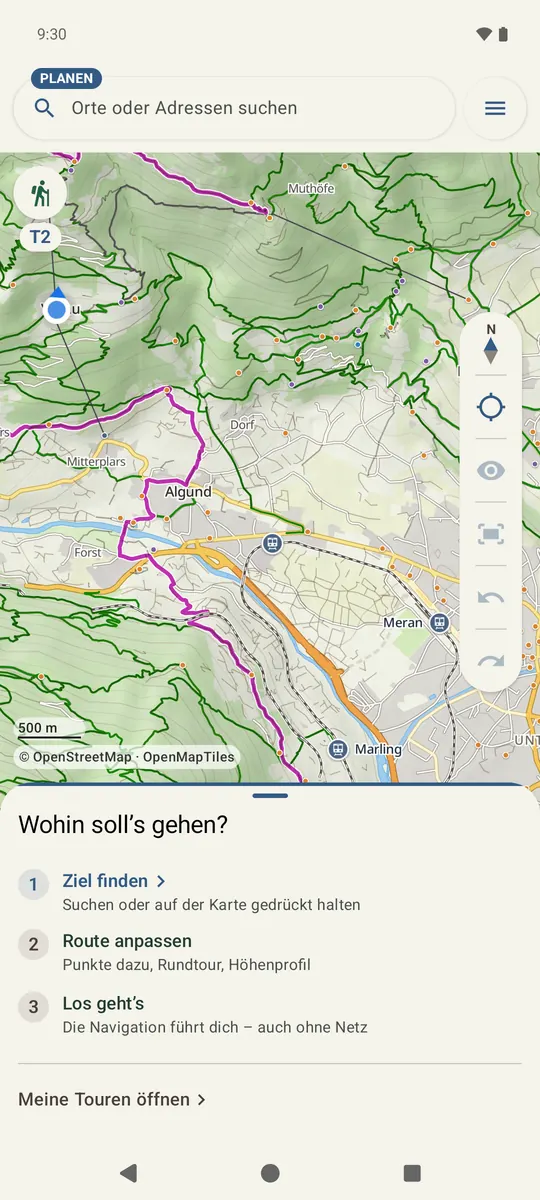
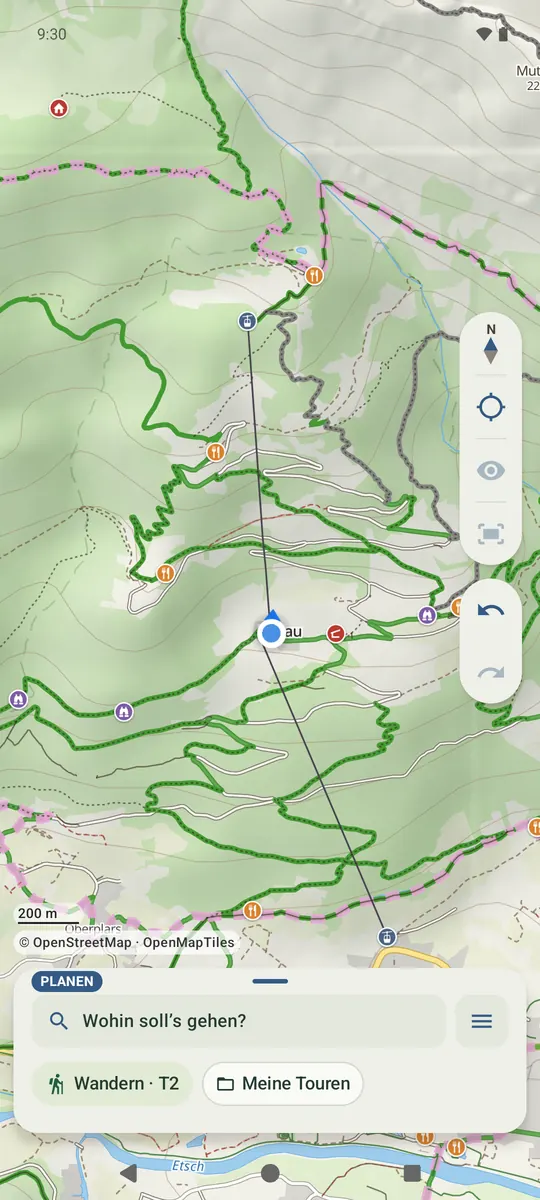
Next app release (prepared, not live): verbinden/connect without brackets, privacy words, Ganz neu berechnen, Daumen-Karte pictures D01 D03 D04 D05 D06 E01 E06 and search-card texts (DE + EN)
Claude-Session: https://claude.ai/code/session_01167zC7XMzE8ztTE3cS1Vr3

diff --git a/legal_content.py b/legal_content.py
@@ -40,17 +40,17 @@ DE_PRIVACY=[
   '<p>Rechtsgrundlage ist Art. 6 Abs. 1 Buchst. f DSGVO. Unser berechtigtes Interesse ist eine sichere, stabile und bezahlbare Bereitstellung von Website, Planer und Karten.</p>'
   '<p>Cloudflare verarbeitet diese Daten in unserem Auftrag (Art. 28 DSGVO) nach seinen <a href="https://www.cloudflare.com/cloudflare-customer-dpa/">Auftragsverarbeitungsbedingungen</a>. Dabei kann die Verarbeitung auch in den USA oder anderen Ländern außerhalb des EWR stattfinden, etwa weil eine Anfrage im nächstgelegenen Rechenzentrum bearbeitet wird. Cloudflare ist nach dem EU-US Data Privacy Framework zertifiziert, für das ein Angemessenheitsbeschluss der EU-Kommission besteht (Art. 45 DSGVO); die Auftragsverarbeitungsbedingungen enthalten zusätzlich EU-Standardvertragsklauseln (Art. 46 DSGVO). Die Auftragsverarbeitungsbedingungen (Customer DPA) sind Teil der Nutzungsbedingungen von Cloudflare und gelten für unser Konto. Wie lange Cloudflare selbst technische Daten aufbewahrt, beschreibt seine <a href="https://www.cloudflare.com/de-de/privacypolicy/">Datenschutzrichtlinie</a>.</p>'),
  ('Cookies und Speicher in deinem Browser','<p><b>Website.</b> onpath.earth setzt keine Cookies und speichert nichts in deinem Browser. Die Hilfesuche läuft nur in deinem Browser. Schrift, Bilder, CSS und JavaScript kommen vom selben Server; Inhalte Dritter wie Google Fonts, Karten, Videos oder Kontaktformulare sind nicht eingebunden. Der Sprachwechsel arbeitet über Links.</p>'
-  '<p><b>Planer.</b> Auch der Planer setzt keine Cookies und nutzt keine Analyse-, Werbe- oder fremden Skripte. Im Speicher deines Browsers legt er nur ab, was seine Funktionen brauchen: im Local Storage deine Einstellungen (zum Beispiel Aktivität, Schwierigkeit, Tempo, Karteninhalt, Sprache, Ansicht), zuletzt bearbeitete, nicht gespeicherte Pläne, Kennzahlen deiner Routen und eine zufällige Browser-Kennung; in der Browser-Datenbank (IndexedDB) deine gespeicherten Routen, eine zufällige Gerätekennung und – nach dem Koppeln – den Kopplungsschlüssel. Diese Speicherung ist für die von dir gewünschten Funktionen unbedingt erforderlich (§ 25 Abs. 2 Nr. 2 TDDDG). Du löschst alles, indem du die Websitedaten für plan.onpath.earth in deinem Browser löschst.</p>'
+  '<p><b>Planer.</b> Auch der Planer setzt keine Cookies und nutzt keine Analyse-, Werbe- oder fremden Skripte. Im Speicher deines Browsers legt er nur ab, was seine Funktionen brauchen: im Local Storage deine Einstellungen (zum Beispiel Aktivität, Schwierigkeit, Tempo, Karteninhalt, Sprache, Ansicht), zuletzt bearbeitete, nicht gespeicherte Pläne, Kennzahlen deiner Routen und eine zufällige Browser-Kennung; in der Browser-Datenbank (IndexedDB) deine gespeicherten Routen, eine zufällige Gerätekennung und – nach dem Verbinden – den Verbindungsschlüssel. Diese Speicherung ist für die von dir gewünschten Funktionen unbedingt erforderlich (§ 25 Abs. 2 Nr. 2 TDDDG). Du löschst alles, indem du die Websitedaten für plan.onpath.earth in deinem Browser löschst.</p>'
   '<p><b>Sicherheitsprüfung.</b> Bei auffälligem Datenverkehr kann Cloudflare vor einer Seite eine Sicherheitsprüfung zeigen und dafür ein technisch notwendiges Cookie (cf_clearance) setzen (§ 25 Abs. 2 Nr. 2 TDDDG). Die Analysefunktion von Cloudflare (Web Analytics) und der Bot-Schutz „Bot Fight Mode“ sind für onpath.earth und plan.onpath.earth nicht eingeschaltet.</p>'),
  ('Routenplaner im Browser (plan.onpath.earth)','<p><b>Dein Plan.</b> Der Planer berechnet Routen in deinem Browser. Der aktuelle Plan steht nur im Link hinter dem Zeichen „#“; dieser Teil eines Links wird nicht an den Server gesendet.</p>'
   '<p><b>Karten und Routing-Daten.</b> Seite, Schriften, Karten, Höhendaten und Routing-Daten lädt dein Browser von plan.onpath.earth. Unser Server sieht dabei zwangsläufig, welche Kartengebiete geladen werden; wir protokollieren das nicht. Die Routing-Daten holt unser Server von brouter.de; brouter.de sieht dabei nicht deine IP-Adresse.</p>'
-  '<p><b>Neue Kartengebiete und Begrenzungen.</b> Ist ein Gebiet noch nicht erstellt, sendet dein Browser dessen Nummer und die zufällige Browser-Kennung; an den Kartenserver gehen nur die Gebietsnummer und – für dessen Begrenzung pro Minute – die IP-Adresse. Um Missbrauch und Kosten zu begrenzen, zählen wir neue Gebiete pro Browser-Kennung (pro Tag und Monat), pro IP-Adresse (pro Tag) und neue Kopplungen pro IP-Adresse (pro Tag). Die IP-Adresse steht in diesen Zählern nur als täglich wechselnde, mit einem geheimen Schlüssel gebildete Prüfsumme; Orte stehen darin nicht. Tageszähler werden nach zwei Tagen gelöscht, Monatszähler nach Ablauf des Monats. Zusätzlich begrenzen Planer und Kartenserver die Zahl der Anfragen pro IP-Adresse und Minute; diese Zähler verfallen nach ein bis zwei Minuten. Rechtsgrundlage ist Art. 6 Abs. 1 Buchst. f DSGVO; unser berechtigtes Interesse ist ein sicherer und bezahlbarer Betrieb.</p>'
+  '<p><b>Neue Kartengebiete und Begrenzungen.</b> Ist ein Gebiet noch nicht erstellt, sendet dein Browser dessen Nummer und die zufällige Browser-Kennung; an den Kartenserver gehen nur die Gebietsnummer und – für dessen Begrenzung pro Minute – die IP-Adresse. Um Missbrauch und Kosten zu begrenzen, zählen wir neue Gebiete pro Browser-Kennung (pro Tag und Monat), pro IP-Adresse (pro Tag) und neue Verbindungen pro IP-Adresse (pro Tag). Die IP-Adresse steht in diesen Zählern nur als täglich wechselnde, mit einem geheimen Schlüssel gebildete Prüfsumme; Orte stehen darin nicht. Tageszähler werden nach zwei Tagen gelöscht, Monatszähler nach Ablauf des Monats. Zusätzlich begrenzen Planer und Kartenserver die Zahl der Anfragen pro IP-Adresse und Minute; diese Zähler verfallen nach ein bis zwei Minuten. Rechtsgrundlage ist Art. 6 Abs. 1 Buchst. f DSGVO; unser berechtigtes Interesse ist ein sicherer und bezahlbarer Betrieb.</p>'
   '<p><b>Suche.</b> Wenn du nach einem Ort suchst, gehen schon während der Eingabe (nach einer kurzen Tipp-Pause) dein Suchtext und der Kartenmittelpunkt, auf etwa 1 km gerundet, direkt von deinem Browser an den Suchdienst Photon (photon.komoot.io) von komoot. Photon sieht dabei deine IP-Adresse und verarbeitet die Anfrage als eigener Verantwortlicher. Rechtsgrundlage für die Einbindung ist Art. 6 Abs. 1 Buchst. b DSGVO, weil du die Suche selbst nutzt.</p>'
   '<p><b>Standort.</b> Deinen Standort fragt der Planer nur ab, wenn du darauf klickst; dein Browser bittet dich vorher um Erlaubnis. Der Standort bleibt in deinem Browser.</p>'
   '<p><b>Google Maps</b> ist im Planer nur ein Knopf, der Google Maps mit dem gewählten Ort in einem neuen Tab öffnet. Erst wenn du ihn anklickst, erhält Google den Ort und deine Verbindungsdaten.</p>'),
- ('Browser und Handy koppeln','<p>Wenn du den Planer mit der App koppelst, werden deine gespeicherten Routen und importierten Tracks über ein Postfach auf unserem Server abgeglichen (Cloudflare D1, Speicherort EU). Aufgezeichnete Touren werden nie übertragen. Die Inhalte werden auf dem Handy beziehungsweise im Browser verschlüsselt (Ende-zu-Ende, AES-256-GCM); der Schlüssel verlässt deine Geräte nicht, wir können die Inhalte nicht lesen.</p>'
+ ('Browser und Handy verbinden','<p>Wenn du den Planer mit der App verbindest, werden deine gespeicherten Routen und importierten Tracks über ein Postfach auf unserem Server abgeglichen (Cloudflare D1, Speicherort EU). Aufgezeichnete Touren werden nie übertragen. Die Inhalte werden auf dem Handy beziehungsweise im Browser verschlüsselt (Ende-zu-Ende, AES-256-GCM); der Schlüssel verlässt deine Geräte nicht, wir können die Inhalte nicht lesen.</p>'
   '<p>Der Server speichert eine zufällige Postfach-Nummer, eine Prüfsumme des Zugangsschlüssels, die verschlüsselten Einträge mit ihrer Größe und Versionsnummer, wann das Postfach angelegt und zuletzt genutzt wurde (tagesgenau) und wann das Handy zuletzt abgeglichen hat (minutengenau). Namen, E-Mail-Adressen oder IP-Adressen speichert er nicht; die IP-Adresse wird nur für die Verbindung und die oben beschriebenen Begrenzungen verwendet.</p>'
-  '<p>Beim Trennen werden alle Inhalte des Postfachs sofort gelöscht; die leere Postfach-Nummer mit ihren Zeitpunkten wird nach 12 Monaten entfernt. Ein Postfach, das 12 Monate nicht genutzt wurde, wird samt Inhalt automatisch gelöscht. Gelöschte Routen bleiben bis dahin als verschlüsselte Löschvermerke im Postfach. Wer deinen Kopplungscode (QR-Code) hat, kann deine gespeicherten Routen lesen – gib ihn nicht weiter. Rechtsgrundlage ist Art. 6 Abs. 1 Buchst. b DSGVO.</p>'),
+  '<p>Beim Trennen werden alle Inhalte des Postfachs sofort gelöscht; die leere Postfach-Nummer mit ihren Zeitpunkten wird nach 12 Monaten entfernt. Ein Postfach, das 12 Monate nicht genutzt wurde, wird samt Inhalt automatisch gelöscht. Gelöschte Routen bleiben bis dahin als verschlüsselte Löschvermerke im Postfach. Wer deinen Verbindungscode (QR-Code) hat, kann deine gespeicherten Routen lesen – gib ihn nicht weiter. Rechtsgrundlage ist Art. 6 Abs. 1 Buchst. b DSGVO.</p>'),
  ('Standort teilen (nur wenn du es einschaltest)','<p>Tippst du in der App unterwegs auf „Standort teilen“, schickt dein Handy während der Tour deinen Weg und Standort etwa alle zwei Minuten (im Stillstand seltener) an unseren Server (Cloudflare Workers mit D1, Speicherort EU). Dazu kommen die Werte, die die Zuschauerseite zeigt: Strecke, Höhenmeter und Zeit, bei einem geplanten Weg Restweg und Ankunft, außerdem Aktivität, Akkustand deines Handys und der Name, den du für die Seite angibst. Alles wird auf dem Handy verschlüsselt (Ende-zu-Ende, AES-256-GCM). Der Schlüssel steckt nur in dem Link, den du selbst verschickst, und zwar im Teil hinter „#“, der nie an einen Server geht. Wir können weder deinen Ort noch deine Route noch deinen Namen lesen.</p>'
   '<p>Der Server speichert eine zufällige Nummer, Prüfsummen der Zugangsschlüssel, die verschlossenen Daten mit ihrer Größe und wann sie kamen. Wer den Link hat, sieht deine Tour, bis das Teilen endet – auch wenn der Link weitergeleitet wurde. Schreiben und löschen kann nur dein Handy. „Teilen beenden“ löscht die Daten sofort; sonst löscht der Server sie etwa 12 Stunden nach Tourende, spätestens etwa 48 Stunden nach der letzten Übertragung. Die leere Nummer mit ihren Zeitpunkten bleibt danach noch 48 Stunden, damit der Link sagen kann, dass nicht mehr geteilt wird. Die IP-Adresse wird nur für die Verbindung und für die Begrenzungen pro Minute und pro Tag genutzt (wie oben, als täglich wechselnde Prüfsumme).</p>'
   '<p><b>Zuschauerseite.</b> Wer den Link öffnet, lädt Seite und Karten von plan.onpath.earth; die Seite setzt keine Cookies und legt nichts in deinem Browser ab. Sie ist kein Notruf-Dienst.</p>'
@@ -64,12 +64,12 @@ DE_PRIVACY=[
   '<li><b>Geteilte Orte:</b> Teilst du einen verkürzten Google-Maps-Link mit OnPath, folgt die App dem Link bei Google bis zur vollen Adresse; die Google-Maps-Seite selbst wird nicht geladen. Findet die eigene Suche einen geteilten Ort nicht sicher, fragt die App den Adressdienst deines Handys (auf den meisten Handys von Google) nach dieser Adresse.</li>'
   '<li><b>Updates</b> (nur bei Installation außerhalb von Google Play): einmal am Tag und wenn du auf „Nach Updates suchen“ tippst, eine Anfrage nach der neuesten Version an GitHub (api.github.com, GitHub, Inc., USA), ohne Kennung von dir oder deinem Handy; der Download kommt von GitHub, wenn du ein Update installierst.</li>'
   '<li><b>Links, die du antippst:</b> „In Google Maps öffnen“ übergibt den Ort an Google Maps; die Website oder Wikipedia-Seite eines Orts und Hilfeseiten (etwa dontkillmyapp.com) öffnen sich im Browser beim jeweiligen Anbieter.</li>'
-  '<li><b>Abgleich mit dem Browser:</b> nur nach dem Koppeln, siehe oben.</li>'
+  '<li><b>Abgleich mit dem Browser:</b> nur nach dem Verbinden, siehe oben.</li>'
   '<li><b>Standort teilen:</b> nur nachdem du es eingeschaltet hast, bis die Tour endet oder du das Teilen beendest, siehe oben.</li>'
   '<li><b>Diagnose-Datei:</b> nur wenn du sie selbst teilst, an den Empfänger, den du wählst. Sie enthält unter anderem Gerätemodell, App-Version, Einstellungen, den aktuellen Kartenausschnitt, den Stand von Aufzeichnung und Navigation und das App-Protokoll – also unter Umständen Ortsangaben. Prüfe sie vor dem Weitergeben.</li>'
   '</ul>'
   '<p>Sprachansagen erzeugt die Sprachausgabe deines Handys; OnPath wählt eine Stimme, die ohne Internet auskommt. brouter.de, komoot, GitHub und Google verarbeiten die Anfragen als eigene Verantwortliche nach ihren eigenen Datenschutzhinweisen; bei GitHub und Google kann dabei eine Übermittlung in die USA stattfinden. Rechtsgrundlage für die Verbindungen ist Art. 6 Abs. 1 Buchst. b DSGVO, weil sie die von dir genutzten Funktionen bereitstellen; für die tägliche Update-Prüfung Art. 6 Abs. 1 Buchst. f DSGVO (berechtigtes Interesse: eine aktuelle, fehlerbereinigte App). Auf Standort und Speicher deines Handys greift die App nur zu, soweit es für die von dir gewünschte Funktion unbedingt erforderlich ist (§ 25 Abs. 2 Nr. 2 TDDDG).</p>'
-  '<p><b>Gerätesicherung von Android.</b> Je nach Einstellung deines Handys nimmt Android die Datenbank von OnPath (Touren mit ihren Aufzeichnungen, Pläne), die Einstellungen und die Gerätekennung für den Abgleich in die Gerätesicherung auf, etwa bei Google, oder überträgt sie auf ein neues Handy. Karten, Problemprotokoll und Kopplungsschlüssel gehören nicht dazu. Das steuerst du in den Android-Einstellungen; wir haben keinen Zugriff auf diese Sicherung.</p>'),
+  '<p><b>Gerätesicherung von Android.</b> Je nach Einstellung deines Handys nimmt Android die Datenbank von OnPath (Touren mit ihren Aufzeichnungen, Pläne), die Einstellungen und die Gerätekennung für den Abgleich in die Gerätesicherung auf, etwa bei Google, oder überträgt sie auf ein neues Handy. Karten, Problemprotokoll und Verbindungsschlüssel gehören nicht dazu. Das steuerst du in den Android-Einstellungen; wir haben keinen Zugriff auf diese Sicherung.</p>'),
  ('Testen und Installieren','<p><b>Persönliche Einladung.</b> Für die Teilnahme am Test schreibst du uns eine E-Mail (siehe unten), etwa mit deinem Handy-Modell. Den Download-Link bekommst du per E-Mail; die App-Datei liegt bei GitHub (GitHub, Inc., USA), das beim Download deine Verbindungsdaten sieht.</p>'
   '<p><b>Testgruppe bei Google.</b> Für den geschlossenen Test über Google Play nutzen wir eine Gruppe bei Google Groups. Anbieter ist Google Ireland Limited, Gordon House, Barrow Street, Dublin 4, Irland. Wenn du den Beitritt anfragst, sehen wir als Verwalter deine E-Mail-Adresse, den Namen deines Google-Kontos und deine Nachricht; andere Mitglieder sehen deine Adresse nicht. Wir nutzen die Angaben, um über die Aufnahme zu entscheiden und dir Nachrichten zum Test zu schicken, und speichern sie nicht außerhalb von Google. Installierst du OnPath über Google Play, verarbeitet Google dabei eigene Daten; Google stellt uns außerdem zusammengefasste Installationszahlen sowie Absturz- und Stabilitätsberichte von Geräten bereit, auf denen das Teilen von Nutzungs- und Diagnosedaten mit Google eingeschaltet ist. Rechtsgrundlage ist Art. 6 Abs. 1 Buchst. b DSGVO: Du nimmst auf eigenen Wunsch am Test teil. Du kannst die Gruppe jederzeit verlassen und den Test in Google Play beenden. Für die Verarbeitung durch Google gilt dessen <a href="https://policies.google.com/privacy?hl=de">Datenschutzerklärung</a>.</p>'),
  ('E-Mail und freiwillige Rückmeldungen','<p>Wenn du uns schreibst, verarbeiten wir deine E-Mail-Adresse, deine Nachricht und freiwillig übermittelte Angaben, um dein Anliegen zu bearbeiten. E-Mails an info@onpath.earth leitet Cloudflare Email Routing an unser Postfach bei Gmail weiter (Google Ireland Limited, Gordon House, Barrow Street, Dublin 4, Irland). Google kann dabei Daten auch in den USA verarbeiten; Google ist nach dem EU-US Data Privacy Framework zertifiziert (Art. 45 DSGVO). Rechtsgrundlage ist Art. 6 Abs. 1 Buchst. f DSGVO (berechtigtes Interesse: deine Anfrage beantworten); geht es um deine Teilnahme am Test, Art. 6 Abs. 1 Buchst. b DSGVO.</p>'
@@ -103,17 +103,17 @@ EN_PRIVACY=[
   '<p>The legal basis is Article 6(1)(f) GDPR. Our legitimate interest is secure, stable and affordable delivery of the website, the planner and the maps.</p>'
   '<p>Cloudflare processes this data on our behalf (Article 28 GDPR) under its <a href="https://www.cloudflare.com/cloudflare-customer-dpa/">data processing terms</a>. Processing may also take place in the USA or other countries outside the EEA, for example because a request is handled in the nearest data centre. Cloudflare is certified under the EU-US Data Privacy Framework, which is covered by an adequacy decision of the European Commission (Article 45 GDPR); the processing terms also contain the EU standard contractual clauses (Article 46 GDPR). The data processing terms (Customer DPA) are part of Cloudflare’s terms of service and apply to our account. How long Cloudflare itself keeps technical data is described in its <a href="https://www.cloudflare.com/privacypolicy/">privacy policy</a>.</p>'),
  ('Cookies and storage in your browser','<p><b>Website.</b> onpath.earth sets no cookies and stores nothing in your browser. The help search runs only in your browser. Fonts, images, styles and scripts come from the same server; no third-party content such as Google Fonts, maps, videos or contact forms is embedded. Language switching uses links.</p>'
-  '<p><b>Planner.</b> The planner sets no cookies either and uses no analytics, advertising or third-party scripts. In your browser’s storage it keeps only what its functions need: in local storage your settings (for example activity, difficulty, pace, map content, language, view), recently edited unsaved plans, figures for your routes and a random browser ID; in the browser database (IndexedDB) your saved routes, a random device ID and – after pairing – the pairing key. This storage is strictly necessary for the functions you ask for (section 25(2) no. 2 of the German TDDDG). You delete all of it by clearing the site data for plan.onpath.earth in your browser.</p>'
+  '<p><b>Planner.</b> The planner sets no cookies either and uses no analytics, advertising or third-party scripts. In your browser’s storage it keeps only what its functions need: in local storage your settings (for example activity, difficulty, pace, map content, language, view), recently edited unsaved plans, figures for your routes and a random browser ID; in the browser database (IndexedDB) your saved routes, a random device ID and – after connecting – the connection key. This storage is strictly necessary for the functions you ask for (section 25(2) no. 2 of the German TDDDG). You delete all of it by clearing the site data for plan.onpath.earth in your browser.</p>'
   '<p><b>Security check.</b> With unusual traffic Cloudflare may show a security check before a page and set a technically necessary cookie (cf_clearance) for it (section 25(2) no. 2 TDDDG). Cloudflare’s analytics feature (Web Analytics) and its “Bot Fight Mode” are not switched on for onpath.earth and plan.onpath.earth.</p>'),
  ('Browser route planner (plan.onpath.earth)','<p><b>Your plan.</b> The planner calculates routes in your browser. The current plan exists only in the link after the “#” sign; this part of a link is not sent to the server.</p>'
   '<p><b>Maps and routing data.</b> Your browser loads the page, fonts, maps, elevation data and routing data from plan.onpath.earth. Our server necessarily sees which map areas are loaded; we do not log this. Our server fetches the routing data from brouter.de; brouter.de does not see your IP address.</p>'
-  '<p><b>New map areas and limits.</b> If an area has not been built yet, your browser sends its number and the random browser ID; only the area number and – for its per-minute limit – the IP address go on to the map server. To limit abuse and cost we count new areas per browser ID (per day and month), per IP address (per day) and new pairings per IP address (per day). In these counters the IP address appears only as a hash that changes daily and is made with a secret key; no places are stored. Daily counters are deleted after two days, monthly counters after the month ends. In addition the planner and the map server limit requests per IP address and minute; these counters expire after one to two minutes. The legal basis is Article 6(1)(f) GDPR; our legitimate interest is safe and affordable operation.</p>'
+  '<p><b>New map areas and limits.</b> If an area has not been built yet, your browser sends its number and the random browser ID; only the area number and – for its per-minute limit – the IP address go on to the map server. To limit abuse and cost we count new areas per browser ID (per day and month), per IP address (per day) and new connections per IP address (per day). In these counters the IP address appears only as a hash that changes daily and is made with a secret key; no places are stored. Daily counters are deleted after two days, monthly counters after the month ends. In addition the planner and the map server limit requests per IP address and minute; these counters expire after one to two minutes. The legal basis is Article 6(1)(f) GDPR; our legitimate interest is safe and affordable operation.</p>'
   '<p><b>Search.</b> When you search for a place, your search text and the map centre, rounded to about 1 km, go directly from your browser to komoot’s Photon search service (photon.komoot.io) while you type (after a short pause). Photon sees your IP address and handles the request as a controller in its own right. The legal basis for this feature is Article 6(1)(b) GDPR, as you use the search yourself.</p>'
   '<p><b>Location.</b> The planner asks for your location only when you click for it; your browser asks your permission first. The location stays in your browser.</p>'
   '<p><b>Google Maps</b> is only a button in the planner that opens Google Maps with the chosen place in a new tab. Google receives the place and your connection data only when you click it.</p>'),
- ('Pairing browser and phone','<p>If you pair the planner with the app, your saved routes and imported tracks are exchanged through a mailbox on our server (Cloudflare D1, stored in the EU). Recorded tours are never sent. The content is encrypted on the phone or in the browser (end-to-end, AES-256-GCM); the key never leaves your devices and we cannot read the content.</p>'
+ ('Connecting browser and phone','<p>If you connect the planner with the app, your saved routes and imported tracks are exchanged through a mailbox on our server (Cloudflare D1, stored in the EU). Recorded tours are never sent. The content is encrypted on the phone or in the browser (end-to-end, AES-256-GCM); the key never leaves your devices and we cannot read the content.</p>'
   '<p>The server stores a random mailbox number, a hash of the access token, the encrypted entries with their size and version number, when the mailbox was created and last used (to the day) and when the phone last synced (to the minute). It stores no names, email addresses or IP addresses; the IP address is used only for the connection and the limits described above.</p>'
-  '<p>Unpairing deletes all content of the mailbox at once; the empty mailbox number with its times is removed after 12 months. A mailbox not used for 12 months is deleted with its content automatically. Until then deleted routes remain in the mailbox as encrypted deletion markers. Anyone who has your pairing code (QR code) can read your saved routes – do not share it. The legal basis is Article 6(1)(b) GDPR.</p>'),
+  '<p>Unpairing deletes all content of the mailbox at once; the empty mailbox number with its times is removed after 12 months. A mailbox not used for 12 months is deleted with its content automatically. Until then deleted routes remain in the mailbox as encrypted deletion markers. Anyone who has your connection code (QR code) can read your saved routes – do not share it. The legal basis is Article 6(1)(b) GDPR.</p>'),
  ('Sharing your location (only when you switch it on)','<p>When you tap “Share location” in the app during an outing, your phone sends your way and position to our server (Cloudflare Workers with D1, stored in the EU) about every two minutes during the tour (less often while you stand still). It adds the figures the viewer page shows: distance, ascent and time, the distance to go and the arrival for a planned route, the activity, your phone’s battery level and the name you give for the page. Everything is encrypted on the phone (end-to-end, AES-256-GCM). The key is only in the link you send yourself, in the part after “#”, which never reaches a server. We cannot read your position, your route or your name.</p>'
   '<p>The server stores a random number, checksums of the access keys, the locked data with its size and when it arrived. Whoever has the link sees your tour until sharing ends – also if the link was forwarded. Only your phone can write or delete. “Stop sharing” deletes the data at once; otherwise the server deletes it about 12 hours after the tour ends, at the latest about 48 hours after the last upload. The empty number with its times then stays for another 48 hours, so the link can say that sharing has ended. The IP address is used only for the connection and for the per-minute and per-day limits (as above, as a daily changing checksum).</p>'
   '<p><b>Viewer page.</b> Whoever opens the link loads the page and the maps from plan.onpath.earth; the page sets no cookies and puts nothing into your browser’s storage. It is not an emergency service.</p>'
@@ -127,12 +127,12 @@ EN_PRIVACY=[
   '<li><b>Shared places:</b> if you share a shortened Google Maps link into OnPath, the app follows the link at Google to its full address; the Google Maps page itself is not loaded. If OnPath’s own search cannot place a shared place with certainty, the app asks your phone’s address service (Google on most phones) for that address.</li>'
   '<li><b>Updates</b> (only for installations outside Google Play): once a day and when you tap “Check for updates”, a request for the newest version to GitHub (api.github.com, GitHub, Inc., USA), without any ID of you or your phone; the download comes from GitHub when you install an update.</li>'
   '<li><b>Links you tap:</b> “Open in Google Maps” hands the place to Google Maps; a place’s website or Wikipedia page and help pages (such as dontkillmyapp.com) open in the browser at that provider.</li>'
-  '<li><b>Sync with the browser:</b> only after pairing, see above.</li>'
+  '<li><b>Sync with the browser:</b> only after connecting, see above.</li>'
   '<li><b>Sharing your location:</b> only after you switch it on, until the tour ends or you stop sharing, see above.</li>'
   '<li><b>Diagnostics file:</b> only when you share it yourself, to the recipient you choose. It contains among other things the device model, app version, settings, the current map view, the recording and navigation state and the app log – so it may contain location information. Check it before passing it on.</li>'
   '</ul>'
   '<p>Voice directions come from your phone’s speech engine; OnPath picks a voice that works without internet. brouter.de, komoot, GitHub and Google handle the requests as controllers in their own right under their own privacy notices; with GitHub and Google this may involve a transfer to the USA. The legal basis for these connections is Article 6(1)(b) GDPR, as they provide the functions you use; for the daily update check Article 6(1)(f) GDPR (legitimate interest: an up-to-date app with fixes). The app accesses your phone’s location and storage only where strictly necessary for the function you ask for (section 25(2) no. 2 TDDDG).</p>'
-  '<p><b>Android device backup.</b> Depending on your phone’s settings, Android includes OnPath’s database (tours with their recordings, plans), the settings and the sync device ID in the device backup, for example at Google, or moves them to a new phone. Maps, the problem log and the pairing key are not included. You control this in Android’s settings; we have no access to this backup.</p>'),
+  '<p><b>Android device backup.</b> Depending on your phone’s settings, Android includes OnPath’s database (tours with their recordings, plans), the settings and the sync device ID in the device backup, for example at Google, or moves them to a new phone. Maps, the problem log and the connection key are not included. You control this in Android’s settings; we have no access to this backup.</p>'),
  ('Testing and installing','<p><b>Personal invitation.</b> To take part in the test you email us (see below), for example with your phone model. You receive the download link by email; the app file is hosted at GitHub (GitHub, Inc., USA), which sees your connection data when you download it.</p>'
   '<p><b>Tester group at Google.</b> For the closed test through Google Play we use a Google Groups group, provided by Google Ireland Limited, Gordon House, Barrow Street, Dublin 4, Ireland. When you ask to join, we as managers see your email address, your Google account name and your message; other members do not see your address. We use this to decide on your request and to send you news about the test, and we do not store it outside Google. If you install OnPath through Google Play, Google processes its own data; Google also gives us aggregated install figures and crash and stability reports from devices on which sharing usage and diagnostics data with Google is switched on. The legal basis is Article 6(1)(b) GDPR: you join the test at your own request. You can leave the group and the test in Google Play at any time. Google’s own <a href="https://policies.google.com/privacy">privacy policy</a> applies to its processing.</p>'),
  ('Email and voluntary feedback','<p>If you email us, we use your address, message and voluntary details to respond. Email to info@onpath.earth is forwarded by Cloudflare Email Routing to our mailbox at Gmail (Google Ireland Limited, Gordon House, Barrow Street, Dublin 4, Ireland). Google may also process data in the USA; Google is certified under the EU-US Data Privacy Framework (Article 45 GDPR). The legal basis is Article 6(1)(f) GDPR (legitimate interest: answering your enquiry); for taking part in the test Article 6(1)(b) GDPR.</p>'
@@ -141,7 +141,7 @@ EN_PRIVACY=[
  ('Retention at a glance','<ul>'
   '<li>Connection data at Cloudflare: not logged by us; Cloudflare keeps technical data under its privacy policy.</li>'
   '<li>Limit counters: per-minute counters after one to two minutes, daily counters after two days, monthly counters after the month ends.</li>'
-  '<li>Sync mailbox: content until you unpair, at most 12 months when unused; the empty mailbox number 12 months after unpairing.</li>'
+  '<li>Sync mailbox: content until you disconnect, at most 12 months when unused; the empty mailbox number 12 months after unpairing.</li>'
   '<li>Shared location: until “Stop sharing”, otherwise about 12 hours after the tour ends, at the latest about 48 hours after the last upload; the empty number 48 hours after that.</li>'
   '<li>Data in the browser and on the phone: until you delete it or uninstall the app.</li>'
   '<li>Email: while needed for the enquiry, longer only under a legal retention duty.</li>'

diff --git a/content_en.py b/content_en.py
@@ -50,12 +50,12 @@ HELP_EN = [('getting-started',
     'Wait for the download to finish and check Settings → Offline maps. A new area can take a few minutes. <a '
     'href="/help/offline/#prepare">Offline preparation in detail →</a>'),
    ('Plan a familiar route',
-    'Choose your activity with the button on the map. Then use “Find your destination” or hold your destination on the map and choose “Go here” to plan from your location. '
+    'At the bottom of the map is the search card. Choose your activity there, for example “Hike · T2”. Then tap “Where to?” and search for your destination, or hold it on the map and choose “Go here” to plan from your location. '
     'A short tap does not set a new destination, preventing accidental changes. To start elsewhere, hold the start '
     'point and choose “Start here”, then add your destination and stops. Check distance, climbing, time and route '
     'hints. Wait for the required maps to finish downloading and begin with a short, familiar route.'),
    ('Let’s go',
-    'Tap the green “Let’s go” button. OnPath saves the plan in “My tours”, guides you and records your outing. On the '
+    'Tap “Let’s go”. OnPath saves the plan in “My tours”, guides you and records your outing. On the '
     'way the bar at the bottom is locked against pocket taps: hold “Stop” or “Plan” for about a second until the '
     'button fills; the bar then stays open for 20 seconds. Set how long to hold in Settings → Navigation.')]),
  ('offline',
@@ -88,7 +88,8 @@ HELP_EN = [('getting-started',
     'place near your route offers “Add as a stop” or “Make it the destination”; the other choice is under “More”. A short tap '
     'does not set a new destination. Hold an existing point to open its actions. To move it on the map, delete and add '
     'it again. In the expanded point list, drag stops into order or remove them. Undo changes, reverse the route or '
-    'make it a round trip. “New plan” starts from scratch. When a new plan replaces the one you had, OnPath asks “Restore your old plan?” – '
+    'make it a round trip. “New plan” starts from scratch. When you add points later, OnPath keeps the stretches it has already '
+    'calculated; to have the whole route calculated afresh, choose ☰ → “Recalculate from scratch” (shown only when there is something to recalculate). When a new plan replaces the one you had, OnPath asks “Restore your old plan?” – '
     '“Restore” brings it back, “Keep” keeps the new one.'),
    ('Check the route',
     'Pull the plan panel up to inspect the elevation profile, surfaces and path types. “Offline ✓” at the top shows '
@@ -123,8 +124,8 @@ HELP_EN = [('getting-started',
    ('Connect browser and phone',
     '<p>Connect once – then your saved plans are in the browser and on your phone, both ways.</p>'
     '<h3>Connect</h3><ol><li>In the browser: click “Connect phone” at the top right, then “Connect phone” again in the window. A QR '
-    'code appears.</li><li>On your phone: open OnPath, tap ☰ → “Pair with browser” (in newer app versions “Connect to browser”) → “Open camera” and scan the '
-    'code.</li><li>OnPath shows six check digits. If they match the browser, tap “Pair” (newer: “Connect”).</li></ol><p>Scan the code with OnPath, not with the phone’s camera '
+    'code appears.</li><li>On your phone: open OnPath, tap ☰ → “Connect to browser” → “Open camera” and scan the '
+    'code.</li><li>OnPath shows six check digits. If they match the browser, tap “Connect”.</li></ol><p>Scan the code with OnPath, not with the phone’s camera '
     'app – that opens it in the browser. If the browser still opens: Android settings → Apps → OnPath → “Open by '
     'default” → turn on “Open supported links”.</p>[[shots:web-handy,web-koppeln,app-koppeln]]'
     '<h3>Your plans on both</h3><p>At the top right you now see your phone’s name with a green dot, and “Save” '
@@ -133,7 +134,7 @@ HELP_EN = [('getting-started',
     'save on your phone comes to the browser’s “My tours” by itself. They sync while OnPath is open on the phone. '
     'Recorded outings stay on your phone.</p>[[shots:app-verbunden,app-routen]]'
     '<h3>Disconnect</h3><p>In the browser: click your phone at the top right, then “Disconnect” at the bottom of the window. '
-    'Or in the app: Settings → Browser sync → “Unpair” (newer: “Disconnect”). Your plans stay on both devices.</p>[[shots:app-trennen]]'
+    'Or in the app: Settings → Browser sync → “Disconnect”. Your plans stay on both devices.</p>[[shots:app-trennen]]'
     '<p>End-to-end encrypted, no account. Keep the QR code to yourself – whoever scans it sees your saved plans.</p>')]),
  ('change-route',
   'Change the route along the way',

diff --git a/content_de.py b/content_de.py
@@ -448,13 +448,13 @@ HELP = [('erste-schritte',
     'Einstellungen → Offline-Karten, ob die Gebiete bereit sind.</li></ol><p>Beim ersten Laden kann ein neues Gebiet '
     'einige Minuten brauchen. <a href="/hilfe/offline/#vorbereiten">Die Offline-Vorbereitung im Detail →</a></p>'),
    ('Die erste Runde planen',
-    '<p>Wähle deine Aktivität mit dem Knopf auf der Karte. Dann suche dein Ziel über „Ziel finden“ oder halte es auf der '
+    '<p>Unten auf der Karte liegt die Suchkarte. Wähle dort deine Aktivität, zum Beispiel „Wandern · T2“. Dann tippe auf „Wohin soll’s gehen?“ und suche dein Ziel, oder halte es auf der '
     'Karte gedrückt und wähle „Hierhin“. OnPath plant von deinem Standort aus. Das längere Drücken verhindert '
     'versehentliche Änderungen durch kurzes Antippen.</p><p>Möchtest du woanders starten, halte zuerst den Startpunkt '
     'gedrückt und wähle „Hier starten“. Ergänze dann Ziel und Zwischenstopps. Prüfe Länge, Höhenmeter und '
     'Streckenhinweise; beginne mit einer kurzen, bekannten Strecke.</p>'),
    ('Los geht’s',
-    '<p>Tippe auf den grünen Knopf „Los geht’s“. OnPath speichert den Plan unter „Meine Touren“, führt dich los und '
+    '<p>Tippe auf „Los geht’s“. OnPath speichert den Plan unter „Meine Touren“, führt dich los und '
     'zeichnet deine Tour auf.</p><p>Unterwegs ist die Leiste unten gegen Tippen in der Tasche gesperrt: Halte „Anhalten“ '
     'oder „Planen“ etwa eine Sekunde gedrückt, bis sich der Knopf füllt. Danach bleibt die Leiste 20 Sekunden offen. '
     'Wie lange du halten musst, stellst du unter Einstellungen → Navigation ein.</p>')]),
@@ -499,7 +499,8 @@ HELP = [('erste-schritte',
     'Ziel – so ändert sich der Plan nicht versehentlich.</p><p>Halte einen bestehenden Punkt gedrückt, um seine Möglichkeiten zu öffnen. Zum Versetzen auf '
     'der Karte löschst du ihn und setzt ihn neu. In der aufgeklappten Punkteliste kannst du Stopps am Griff '
     'umsortieren und entfernen. Änderungen lassen sich rückgängig machen; außerdem kannst du die Route umkehren oder '
-    'zur Rundtour ergänzen. Mit „Neu planen“ beginnst du von vorn.</p><p>Ersetzt ein neuer Plan den bisherigen, fragt '
+    'zur Rundtour ergänzen. Mit „Neu planen“ beginnst du von vorn.</p><p>Fügst du später Punkte ein, behält OnPath die schon berechneten '
+    'Wegstücke. Möchtest du die ganze Strecke frisch berechnen lassen, wähle im Menü ☰ „Ganz neu berechnen“; der Eintrag erscheint nur, wenn es etwas zu berechnen gibt.</p><p>Ersetzt ein neuer Plan den bisherigen, fragt '
     'OnPath: „Deinen alten Plan wiederherstellen?“ Mit „Wiederherstellen“ ist er zurück, mit „Behalten“ bleibt der neue.</p>'),
    ('Die Strecke ansehen',
     '<p>Ziehe das Plan-Fenster nach oben, um Höhenprofil, Wegarten und Untergrund anzusehen. Oben zeigt „PLANEN · Ohne '
@@ -541,7 +542,7 @@ HELP = [('erste-schritte',
    ('Browser und Handy verbinden',
     '<p>Einmal verbinden – dann sind deine gespeicherten Pläne im Browser und auf dem Handy, in beide Richtungen.</p>'
     '<h3>Verbinden</h3><ol><li>Im Browser: Klicke oben rechts auf „Handy verbinden“ und im Fenster noch einmal auf „Handy '
-    'verbinden“. Ein QR-Code erscheint.</li><li>Auf dem Handy: Öffne OnPath, tippe auf ☰ → „Mit Browser koppeln“ (in neueren App-Versionen „Mit Browser verbinden“) → '
+    'verbinden“. Ein QR-Code erscheint.</li><li>Auf dem Handy: Öffne OnPath, tippe auf ☰ → „Mit Browser verbinden“ → '
     '„Kamera öffnen“ und scanne den Code.</li><li>OnPath zeigt sechs Prüfziffern. Stimmen sie mit denen im Browser '
     'überein, tippe auf „Verbinden“.</li></ol><p>Scanne den Code mit OnPath, nicht mit der Kamera-App des '
     'Handys – die öffnet ihn im Browser. Öffnet sich trotzdem der Browser: Android-Einstellungen → Apps → OnPath → '

diff --git a/help_shots.py b/help_shots.py
@@ -17,12 +17,12 @@ from pathlib import Path
 
 IMAGES = {'leer': ('D01-handy-leerer-plan-de.png',
           'D01-handy-leerer-plan-en.png',
-          'Leerer Plan: hier beginnt die Planung.',
-          'Empty plan: this is where planning begins.'),
+          'Leerer Plan: Unten fragt die Suchkarte „Wohin soll’s gehen?“.',
+          'Empty plan: the search card at the bottom asks “Where to?”.'),
  'halten': ('D03-handy-karte-halten-hierhin-de.png',
             'D03-handy-karte-halten-hierhin-en.png',
-            'Karte gedrückt halten: „Hier starten“ oder „Hierhin“.',
-            'Hold the map: Start here or Go here.'),
+            'Karte gedrückt halten: „Hier starten“, „Rundtour von hier“ oder „Hierhin“.',
+            'Hold the map: Start here, Round trip from here or Go here.'),
  'punkt1': ('D04-handy-start-gesetzt-de.png',
             'D04-handy-start-gesetzt-en.png',
             'Der Start ist gesetzt, jetzt kommt das Ziel.',
@@ -125,8 +125,8 @@ IMAGES = {'leer': ('D01-handy-leerer-plan-de.png',
                  'The connection code, blurred here: scan it with OnPath.'),
  'app-koppeln': ('C03-handy-menue-koppeln-de.png',
                  'C03-handy-menue-koppeln-en.png',
-                 'Im App-Menü „Mit Browser koppeln“ öffnen.',
-                 'Open Pair with browser in the app menu.'),
+                 'Im App-Menü „Mit Browser verbinden“ öffnen.',
+                 'Open Connect to browser in the app menu.'),
  'app-verbunden': ('C05-handy-verbunden-de.png',
                    None,
                    'Browser und Handy sind verbunden.',
@@ -138,7 +138,7 @@ IMAGES = {'leer': ('D01-handy-leerer-plan-de.png',
  'app-trennen': ('C08-handy-trennen-de.png',
                  None,
                  'Einstellungen → Browser-Abgleich: die Verbindung trennen.',
-                 'Settings → Browser sync: unpair the devices.'),
+                 'Settings → Browser sync: disconnect the devices.'),
  'neustart-hinweis': ('L01-handy-neustart-hinweis-de.png',
                       'L01-handy-neustart-hinweis-en.png',
                       'Nach einem Neustart: Die Aufzeichnung ist gespeichert.',
